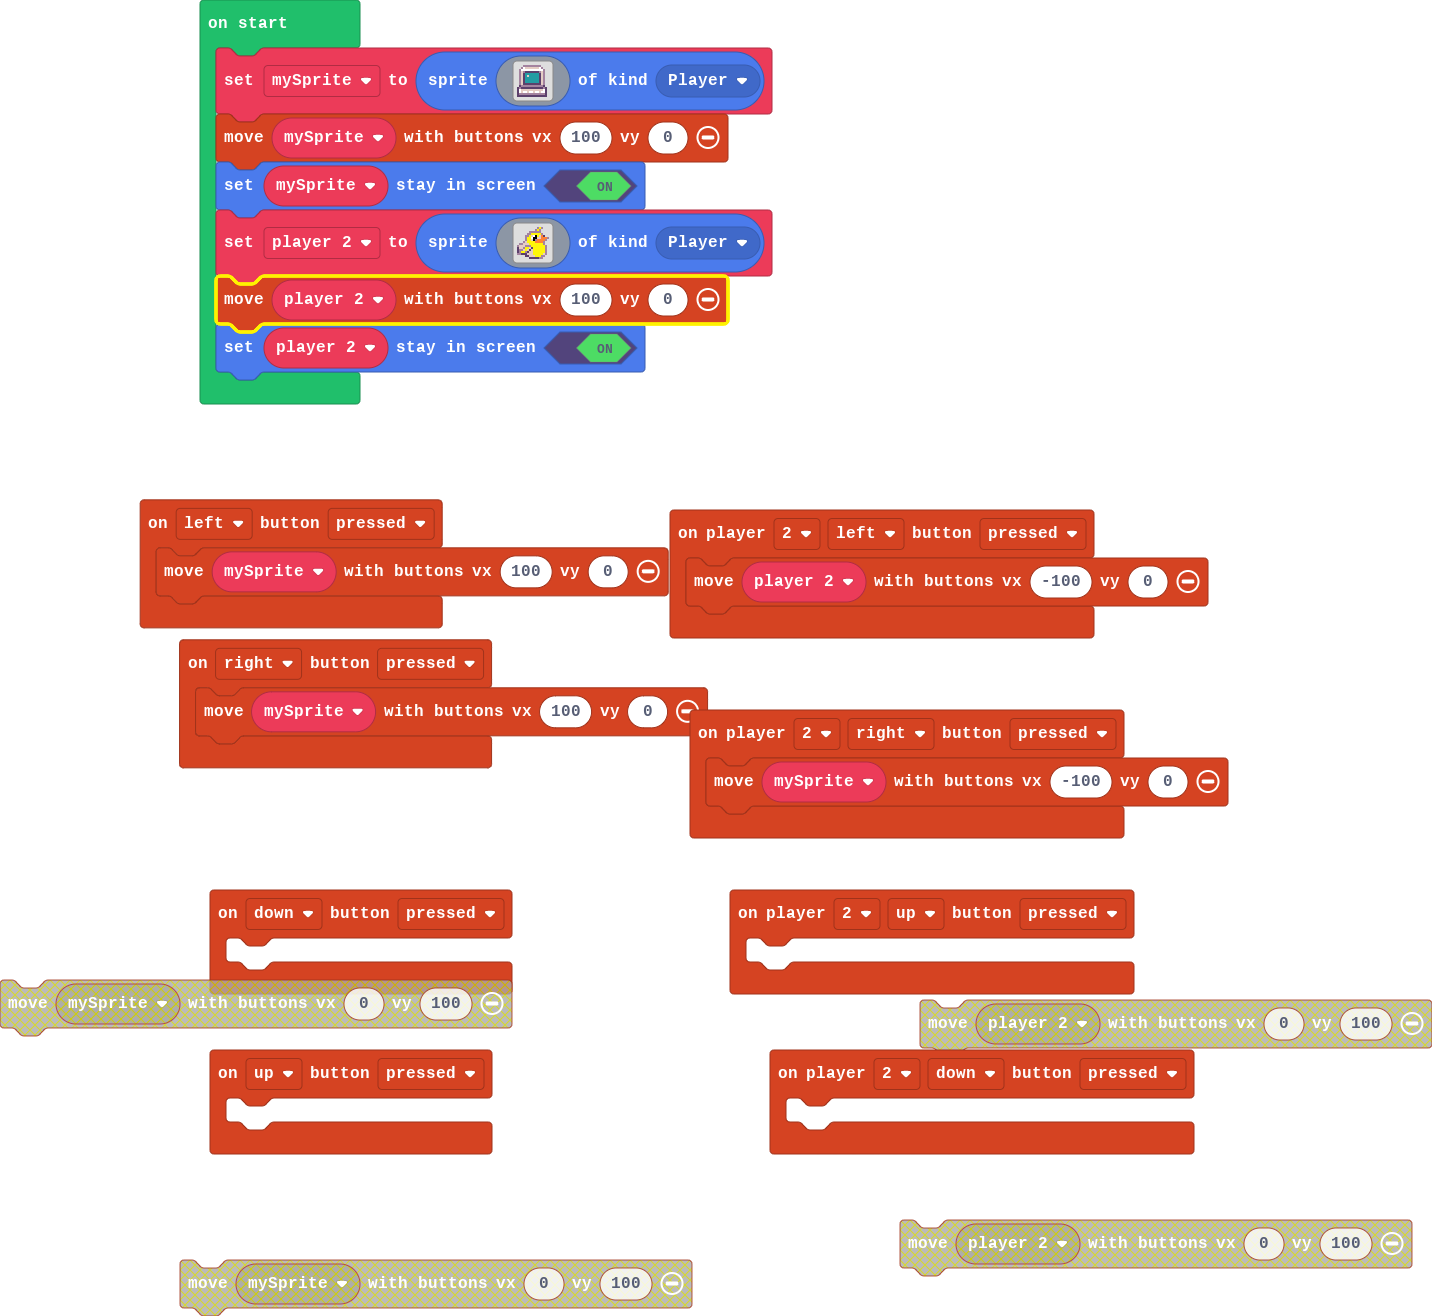
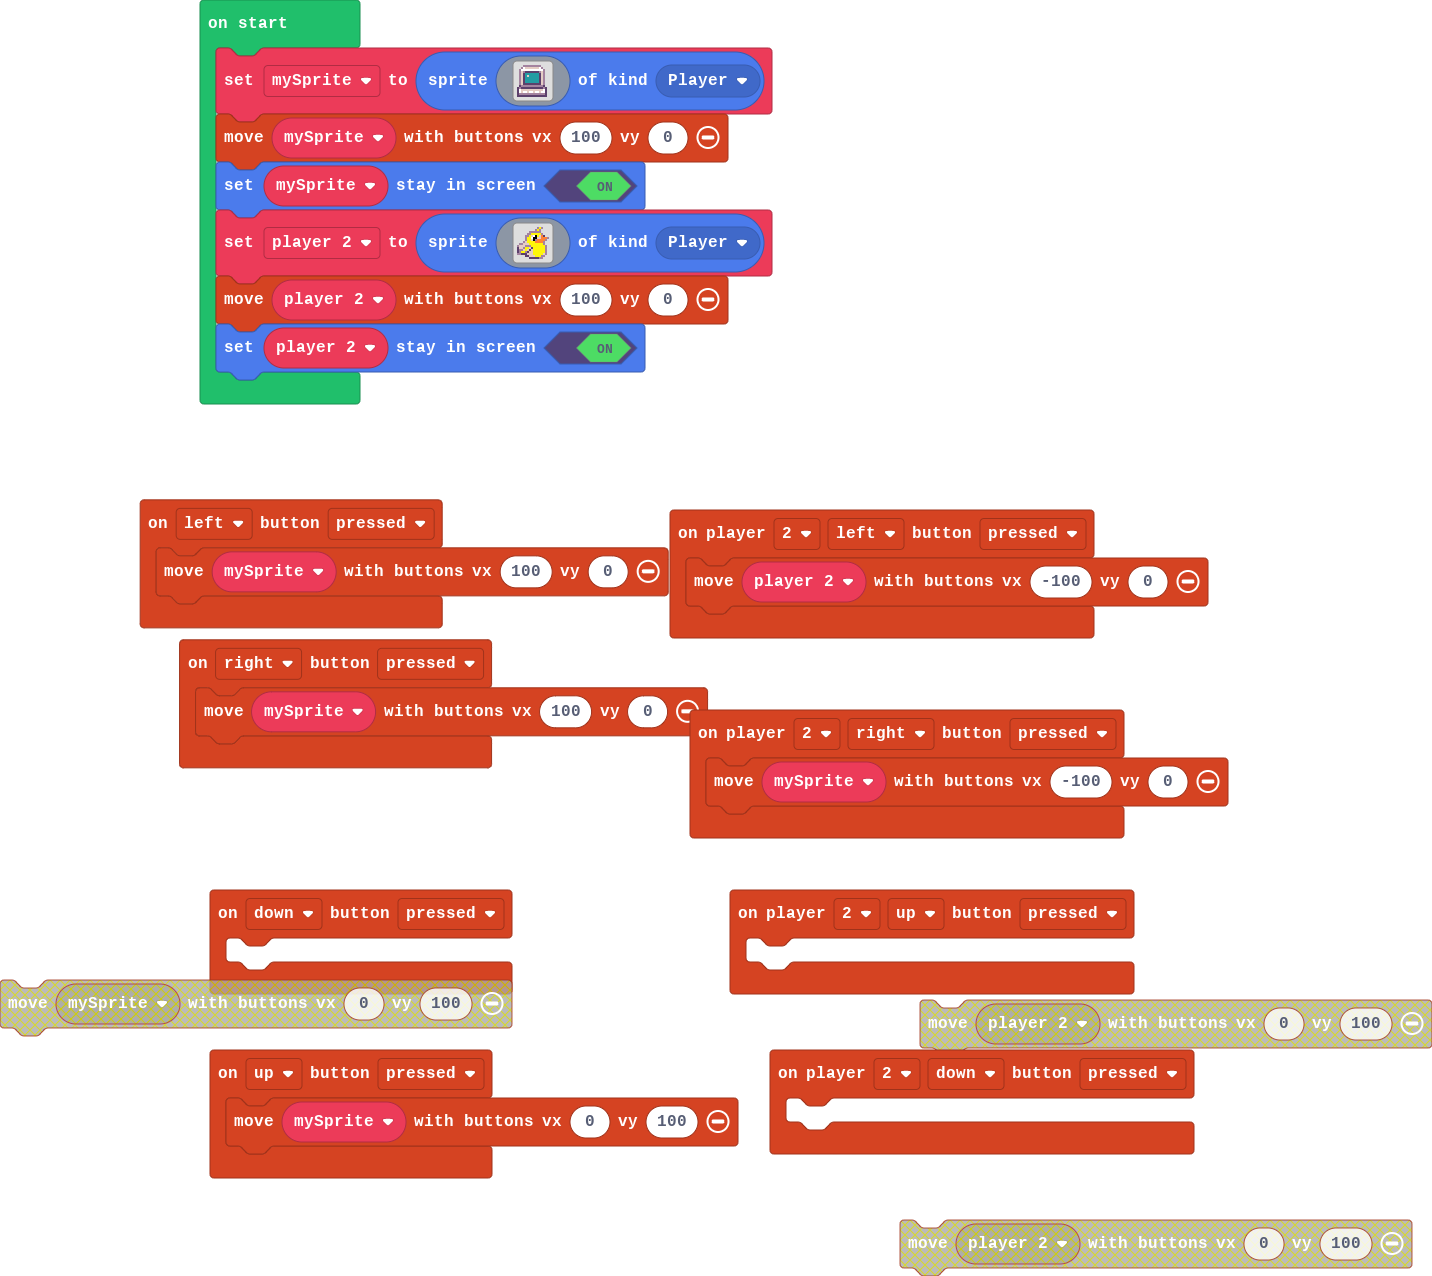
Update main.blocks, main.ts

Changed region(s): [[0.0, 0.3668, 1.0, 1.0], [0.1229, 0.0306, 0.5531, 0.3362]]

diff --git a/main.ts b/main.ts
@@ -1,5 +1,5 @@
 controller.up.onEvent(ControllerButtonEvent.Pressed, function () {
-	
+    controller.moveSprite(mySprite, 0, 100)
 })
 controller.player2.onButtonEvent(ControllerButton.Down, ControllerButtonEvent.Pressed, function () {
 	
